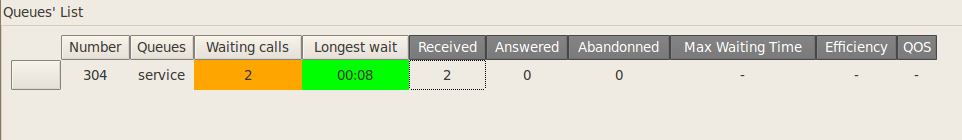
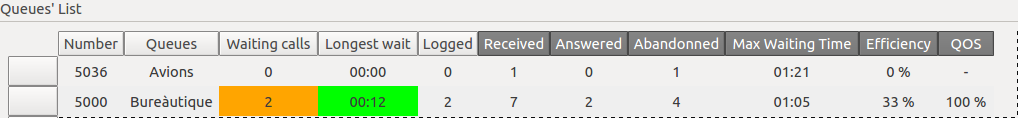
new agent logged counter
Ticket #3328

diff --git a/source/contact_center/supervision/supervision.rst b/source/contact_center/supervision/supervision.rst
@@ -79,6 +79,9 @@ Efficiency
 QOS
    Percentage of calls taken within X seconds over answered calls during the configured statistical window , X can be configured on queue basis
 
+Logged
+   Shows the number of logged agents in the queue. This column is set to N/A when the queue has just been created and no members are already affected.
+
 **Counter availability**
 
 When the XiVO client is initialized, na is diplayed for not initialized counters. When the XiVO client is restarted the counters are always displayed and calculated as if the application was not restarted. When the server is restarted, counters are reinitialized.
